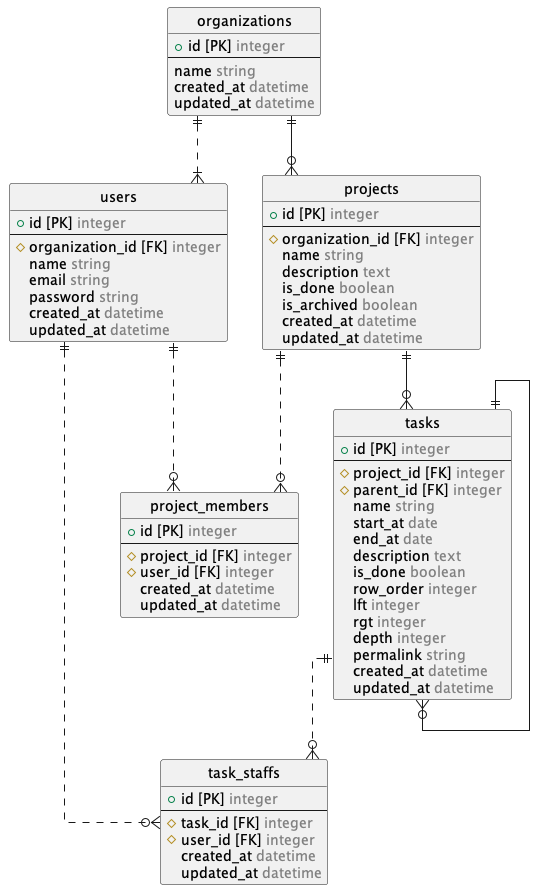
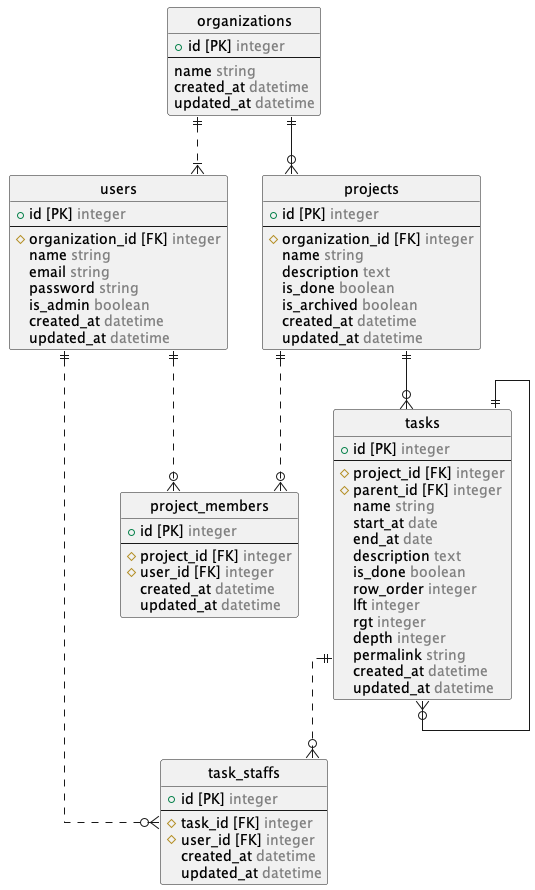
feat: #78 usersテーブルにis_adminカラムを追加する

diff --git a/db/schema.rb b/db/schema.rb
@@ -10,7 +10,7 @@
 #
 # It's strongly recommended that you check this file into your version control system.
 
-ActiveRecord::Schema[7.0].define(version: 2023_10_06_054448) do
+ActiveRecord::Schema[7.0].define(version: 2023_10_17_054625) do
   create_table "organizations", charset: "utf8mb4", collation: "utf8mb4_0900_ai_ci", force: :cascade do |t|
     t.string "name"
     t.datetime "created_at", null: false
@@ -60,6 +60,7 @@ ActiveRecord::Schema[7.0].define(version: 2023_10_06_054448) do
     t.string "name"
     t.string "email", default: "", null: false
     t.string "encrypted_password", default: "", null: false
+    t.boolean "is_admin", default: false, null: false
     t.string "reset_password_token"
     t.datetime "reset_password_sent_at"
     t.datetime "remember_created_at"

diff --git a/app/models/user.rb b/app/models/user.rb
@@ -13,6 +13,7 @@ class User < ApplicationRecord
   has_many :tasks, through: :task_staffs
 
   validates :name, presence: true
+  validates :is_admin, inclusion: [true, false]
 
   GUEST_EMAIL = 'guest@example.com'.freeze
 

diff --git a/db/migrate/20231017054625_add_is_admin_to_users.rb b/db/migrate/20231017054625_add_is_admin_to_users.rb
@@ -1,0 +1,5 @@
+class AddIsAdminToUsers < ActiveRecord::Migration[7.0]
+  def change
+    add_column :users, :is_admin, :boolean, after: :encrypted_password, null: false, default: false
+  end
+end
